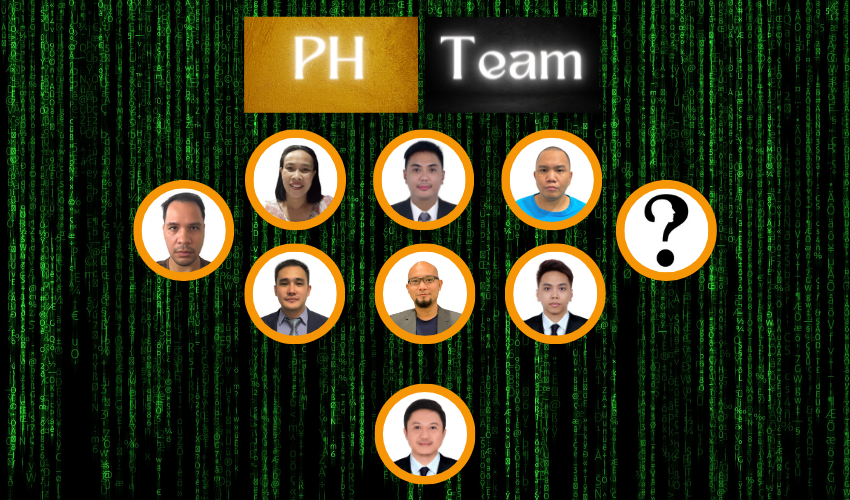
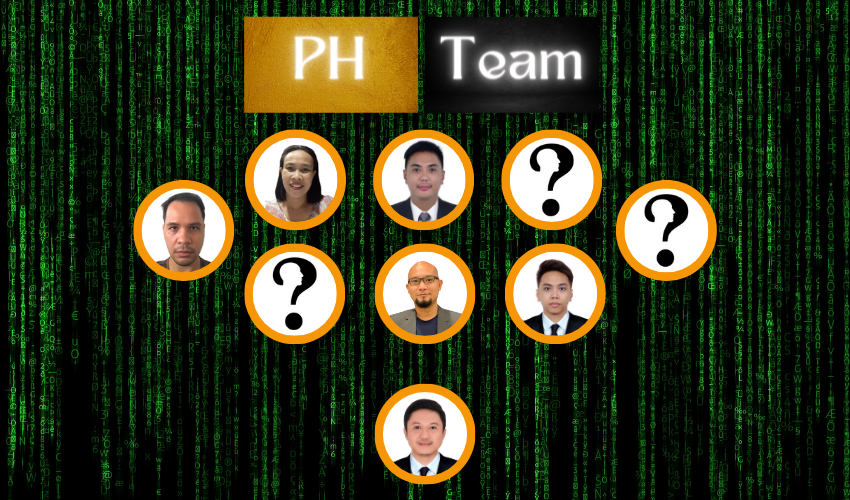
vacant position
vacant position

Changed region(s): [[0.6118, 0.27, 0.7035, 0.45], [0.3059, 0.51, 0.3976, 0.69]]

diff --git a/index.html b/index.html
@@ -889,10 +889,10 @@
 				<div class="row mt-40">
 					<div class="col-lg-12">
 						<div class="card-deck">
-							<div id="rMag-1" class="card" data-toggle="modal" data-target="#RemotechMagazine">
-								<img class="card-img-top" src="img/meet-j.png" alt="Team">
+							<div id="rMag-1" class="card" data-toggle="modal" data-target="#RemotechMagazine-delete">
+								<img class="card-img-top" src="img/meet-me.png" alt="Team">
 								<div class="card-footer">
-									<span class="font-weight-bold">J Christian</span>
+									<span class="font-weight-bold">Vacant Position</span>
 								</div>
 								<div class="card-footer">
 									<span><em>- IT Support Technician</em></span>
@@ -922,7 +922,7 @@
 									<span class="font-weight-bold">Vacant Position</span>
 								</div>
 								<div class="card-footer">
-									<span><em>- Call Operator</em></span>
+									<span><em>- TBD</em></span>
 								</div>
 							</div>
 						</div>	
@@ -937,13 +937,13 @@
 									<span class="font-weight-bold">Vacant Position</span>
 								</div>
 								<div class="card-footer">
-									<span><em> - Web Developer</em></span>
+									<span><em> - TBD</em></span>
 								</div>
 							</div>
-							<div id="rMag-6" class="card" data-toggle="modal" data-target="#RemotechMagazine">
-								<img class="card-img-top" src="img/meet-jan.png" alt="Team">
+							<div id="rMag-6" class="card" data-toggle="modal" data-target="#RemotechMagazine-delete">
+								<img class="card-img-top" src="img/meet-me.png" alt="Team">
 								<div class="card-footer">
-									<span class="font-weight-bold">Jan Michael</span>
+									<span class="font-weight-bold">Vacant Position</span>
 								</div>
 								<div class="card-footer">
 									<span><em>- Lead Capture</em></span>
@@ -1006,7 +1006,7 @@
 									<span class="font-weight-bold">Vacant Position</span>
 								</div>
 								<div class="card-footer">
-									<span><em>- Social Media Manager</em></span>
+									<span><em>- TBD</em></span>
 								</div>
 							</div>
 						</div>	
